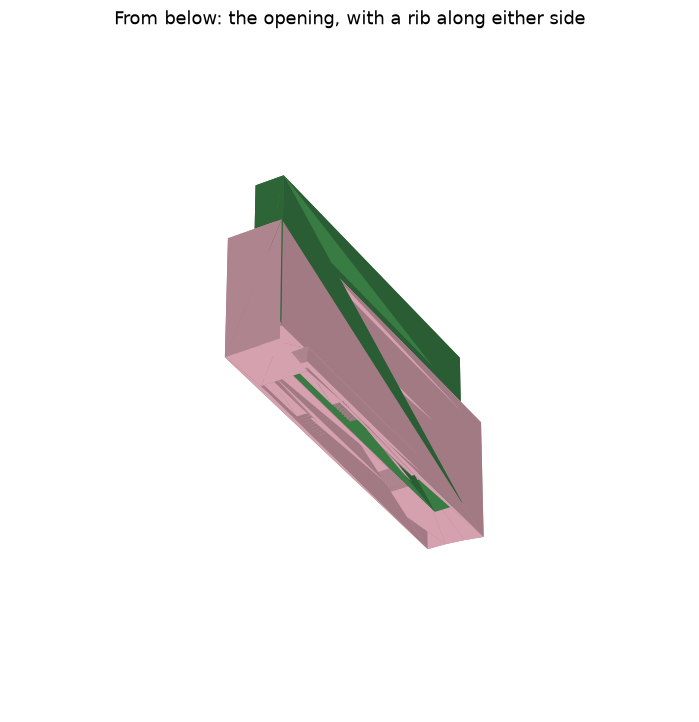
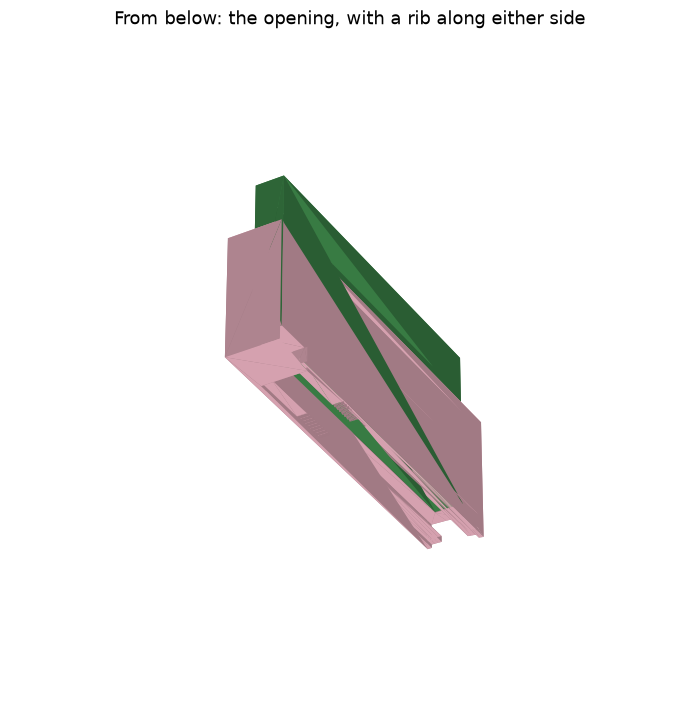
drawer-glass-clip: an opening that runs out through the curved end, and a slot 0.2 mm longer

Changed region(s): [[0.5408, 0.6094, 0.691, 0.7618], [0.3906, 0.4875, 0.5408, 0.6399]]

diff --git a/parts/drawer-glass-clip/part.py b/parts/drawer-glass-clip/part.py
@@ -1,9 +1,10 @@
 """drawer-glass-clip: a sleeve that connects a plate of glass to the front of a drawer.
 
 The glass comes in from the top, into a slot. The bottom has an opening between two thin walls, up to the glass,
-which a part of the drawer comes up into. A rib runs along either side of the opening, near its bottom edge, with
-room behind it for that part to grip onto, and a patch of ridges on its underside. One end is flat. The other end's face
-curves across the clip: it is full length at the side the slot is nearest to, and sweeps back to the other side.
+which runs out through the curved end: the drawer's holders slide in there. A rib runs along either side of the
+opening, near its bottom edge, with room behind it for a holder to grip onto, and a patch of ridges on its underside.
+One end is flat. The other end's face curves across the clip: it is full length at the side the slot is nearest to,
+and sweeps back to the other side.
 
 Every size is a named constant below. Coordinates: x across, toward the side the slot is nearest to, y along from the
 flat end, z up from the bottom.
@@ -37,13 +38,13 @@ GLASS_SHOWN = 45  # how much of the glass the pictures show, up from the slot's 
 GLASS_STOP = 7  # from the bottom to the glass, the user's measurement on the original
 SLOT_WALL = 2  # from the clip's long side to the slot, the user's measurement on the original
 SLOT_FROM = 4  # from the flat end to the slot: read off the photo
-SLIDE = 0.2  # a side and an end, round the glass: the glass slides in
+SLIDE = 0.2  # a side, round the glass, across: the glass slides in
+END = 0.3  # at each end of the glass, along: the glass slides in, with leeway
 RIB_IN = 1  # a rib's underside, up from the bottom, the user's measurement on the original
 RIB = 1.75  # a rib, from its underside to its back, the user's measurement on the original
 BEHIND = 4  # the room behind a rib, between its back and the glass, the user's measurement on the original: what grips onto the rib goes there
 OPENING_WALL = 1.2  # the wall on either side of the opening: three lines of the nozzle, the least a wall is; 1 mm on the original
-OPENING_FROM = 14.5  # the opening and the ribs, along, from the flat end: read off the photo
-OPENING_TO = 70  # where the opening and the ribs end, from the flat end, the user's measurement on the original
+OPENING_FROM = 14.5  # the opening and the ribs, along, from the flat end: read off the photo. They run out through the curved end
 RIB_WIDE = 4  # a rib with its wall, in from the clip's side, the user's measurement on the original
 RIDGE = 0.4  # how deep the grooves between the ridges are cut into a rib's underside
 PITCH = 1.2  # from one groove to the next, along
@@ -51,7 +52,7 @@ RIDGES = 11  # the grooves in a rib
 RIDGES_FROM = 31  # the first groove, from the flat end: read off the photo
 
 SLOT = GLASS_THICK + 2 * SLIDE  # the slot, across
-SLOT_LENGTH = GLASS_EDGE + 2 * SLIDE  # the slot, along
+SLOT_LENGTH = GLASS_EDGE + 2 * END  # the slot, along
 SLOT_X = WIDTH / 2 - SLOT_WALL - SLOT / 2  # the middle of the slot and of the glass, across
 FAR_WALL = WIDTH - SLOT_WALL - SLOT  # the wall on the slot's other side
 OPENING = WIDTH - 2 * OPENING_WALL  # the opening, across
@@ -70,9 +71,9 @@ VIEWS = (
 
 def ribs():
     """The two ribs, with the ridges in their undersides: a strip along either side of the opening, near its bottom
-    edge, over its whole length."""
-    both = Pos(0, OPENING_FROM - JOIN, RIB_IN) * Box(OPENING + 2 * JOIN, OPENING_TO - OPENING_FROM + 2 * JOIN, RIB, align=FROM)
-    gap = Pos(0, OPENING_FROM - CUT, RIB_IN - CUT) * Box(RIB_GAP, OPENING_TO - OPENING_FROM + 2 * CUT, RIB + 2 * CUT, align=FROM)
+    edge, over its whole length. They run past the curved end, whose cut ends them."""
+    both = Pos(0, OPENING_FROM - JOIN, RIB_IN) * Box(OPENING + 2 * JOIN, LENGTH - OPENING_FROM + JOIN + CUT, RIB, align=FROM)
+    gap = Pos(0, OPENING_FROM - CUT, RIB_IN - CUT) * Box(RIB_GAP, LENGTH - OPENING_FROM + 2 * CUT, RIB + 2 * CUT, align=FROM)
     # The grooves, from the side: the sketch's x is the part's y, and its y the part's z. What is left between two
     # grooves is a ridge, with its tip at the rib's underside.
     one = Polygon((0, -CUT), (0, 0), (PITCH / 2, RIDGE), (PITCH, 0), (PITCH, -CUT), align=None)
@@ -85,8 +86,9 @@ def ribs():
 
 def clip():
     slot = Pos(SLOT_X, SLOT_FROM, GLASS_STOP) * Box(SLOT, SLOT_LENGTH, DEPTH - GLASS_STOP + CUT, align=FROM)
-    # The opening goes up to the glass. The clip is solid under the glass on either side of it, along.
-    opening = Pos(0, OPENING_FROM, -CUT) * Box(OPENING, OPENING_TO - OPENING_FROM, GLASS_STOP + CUT, align=FROM)
+    # The opening goes up to the glass and out through the curved end. The clip is solid under the glass at the
+    # flat end.
+    opening = Pos(0, OPENING_FROM, -CUT) * Box(OPENING, LENGTH - OPENING_FROM + CUT, GLASS_STOP + CUT, align=FROM)
     # The curved end: everything inside an upright cylinder past the end is cut away.
     hollow = Pos(-WIDTH / 2, LENGTH - SWEEP + ARC, -CUT) * Cylinder(ARC, DEPTH + 2 * CUT, align=MIN)
     return Box(WIDTH, LENGTH, DEPTH, align=FROM) - slot - opening + ribs() - hollow
@@ -94,13 +96,13 @@ def clip():
 
 def glass():
     """The glass, as a block: the edge that stands in the slot, and the start of the pane above it."""
-    return Pos(SLOT_X, SLOT_FROM + SLIDE, GLASS_STOP) * Box(GLASS_THICK, GLASS_EDGE, GLASS_SHOWN, align=FROM)
+    return Pos(SLOT_X, SLOT_FROM + END, GLASS_STOP) * Box(GLASS_THICK, GLASS_EDGE, GLASS_SHOWN, align=FROM)
 
 
 def main():
     # The clip prints standing on its flat end, so every layer is a ring or a U round the glass, and the glass cannot
-    # split the walls off. The slot's and the opening's far ends bridge from wall to wall. A brim keeps the tall
-    # piece on the plate.
+    # split the walls off. The slot's far end bridges from wall to wall. A brim keeps the tall piece on the
+    # plate.
     plate.run(
         HERE,
         printed={"clip": clip()},

diff --git a/parts/drawer-glass-clip/README.md b/parts/drawer-glass-clip/README.md
@@ -1,8 +1,8 @@
 # drawer-glass-clip
 
 A sleeve that connects a plate of glass to the front of a drawer. The glass comes in from the
-top, and a part of the drawer grips onto ridged ribs in an opening in the bottom. It is a draft: some
-sizes are read off photos of the original.
+top, and the drawer's holders slide in at the curved end and grip onto ridged ribs in an opening
+in the bottom. It is a draft: some sizes are read off photos of the original.
 
 ![drawer-glass-clip](pictures/angle.png)
 
@@ -25,14 +25,15 @@ sizes are read off photos of the original.
 The clip is 100 mm long, 15.1 mm wide and 35 mm from bottom to top. The 35 mm is read off a
 photo of the original on a cutting mat.
 
-The slot for the glass is open at the top. It is 8.4 mm wide and 89.4 mm long, the glass with
-0.2 mm a side and an end: the glass slides in and the slot does not grip it. It starts 2 mm from
-the clip's long side and 4 mm from the flat end, which is read off a photo. The wall on its
-other side is 4.7 mm thick. The slot stops 7 mm above the bottom.
+The slot for the glass is open at the top. It is 8.4 mm wide and 89.6 mm long, the glass with
+0.2 mm a side and 0.3 mm at each end: the glass slides in and the slot does not grip it. It
+starts 2 mm from the clip's long side and 4 mm from the flat end, which is read off a photo. The
+wall on its other side is 4.7 mm thick. The slot stops 7 mm above the bottom.
 
-The bottom has an opening for a part of the drawer to come up into: 12.7 mm across, between
-walls 1.2 mm thick, from 14.5 to 70 mm from the flat end, and open up to the glass. The
-original's walls are 1 mm; 1.2 mm is the least this printer makes a wall.
+The bottom has an opening for the drawer's holders: 12.7 mm across, between walls 1.2 mm thick,
+and open up to the glass. It starts 14.5 mm from the flat end and runs out through the curved
+end, where the holders slide in. The original's walls are 1 mm; 1.2 mm is the least this printer
+makes a wall.
 
 A rib runs along either side of the opening, over its whole length, near the bottom edge. Each
 rib with its wall is 4 mm wide, so the gap between the ribs is 7.1 mm. A rib's underside is 1 mm
@@ -42,8 +43,8 @@ for what grips onto it. Each rib's underside has a patch of ridges: 11 grooves, 
 underside. Where the opening starts and where the ridges are along the clip, are read off a
 photo.
 
-Before and past the opening the clip is solid under the glass, and the glass stands on that:
-on 10.3 mm at the flat end and 23.4 mm toward the curved end.
+Before the opening the clip is solid under the glass, and the glass stands on that: on 10.2 mm
+at the flat end. Over the opening the slot has no floor.
 
 One end is flat. The other end's face curves across the clip, hollow: it is at 100 mm at the
 long side, the side the slot is nearest to, and sweeps back to 98 mm at the other side, an arc
@@ -51,13 +52,12 @@ with a 58 mm radius.
 
 The clip stands on its flat end when it prints. Every layer is then a ring or a U round the
 glass, so the glass pushes the walls apart along the layers and cannot split them off. The
-slot's upper end bridges 8.4 mm and the opening's 12.7 mm, from wall to wall. The ribs stand
-on the solid end. The grooves' faces lean 34° from upright. Nothing takes supports.
-The piece is 100 mm tall on a 15.1 × 35 mm foot, and a brim keeps it on the plate.
+slot's upper end bridges 8.4 mm, from wall to wall. The ribs stand on the solid end. The
+grooves' faces lean 34° from upright. Nothing takes supports. The piece is 100 mm tall on a 15.1 × 35 mm foot, and a brim keeps it on the plate.
 
 ## Putting it together
 
-1. Push the clip's opening onto the part of the drawer that grips the ribs.
+1. Slide the clip onto the drawer's holders, curved end first, so they grip the ribs.
 2. Slide the glass's edge down into the slot, onto its floor.
 
 ## Printing
